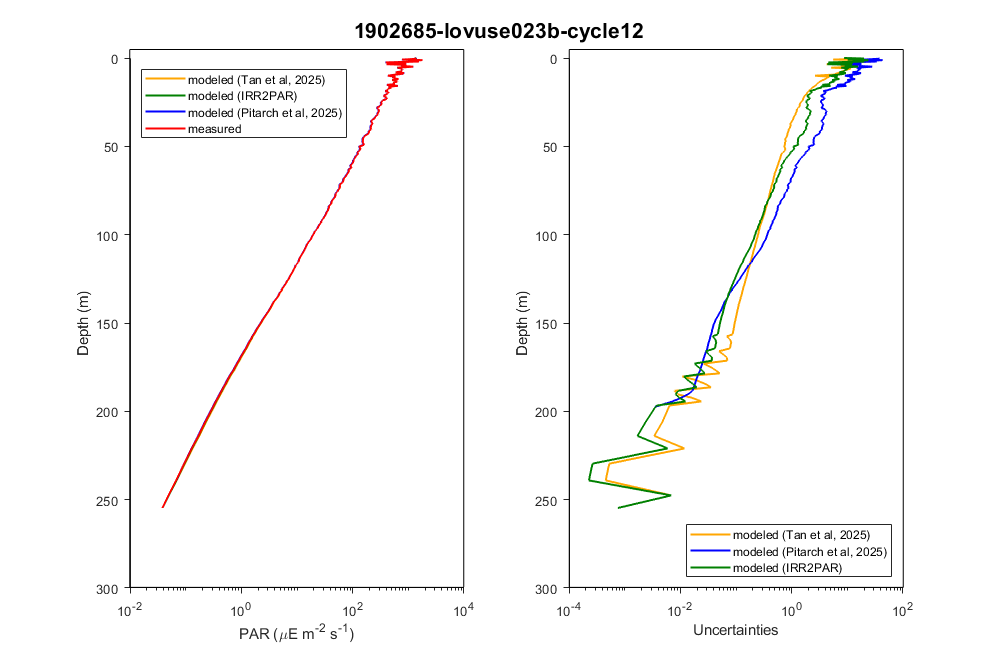
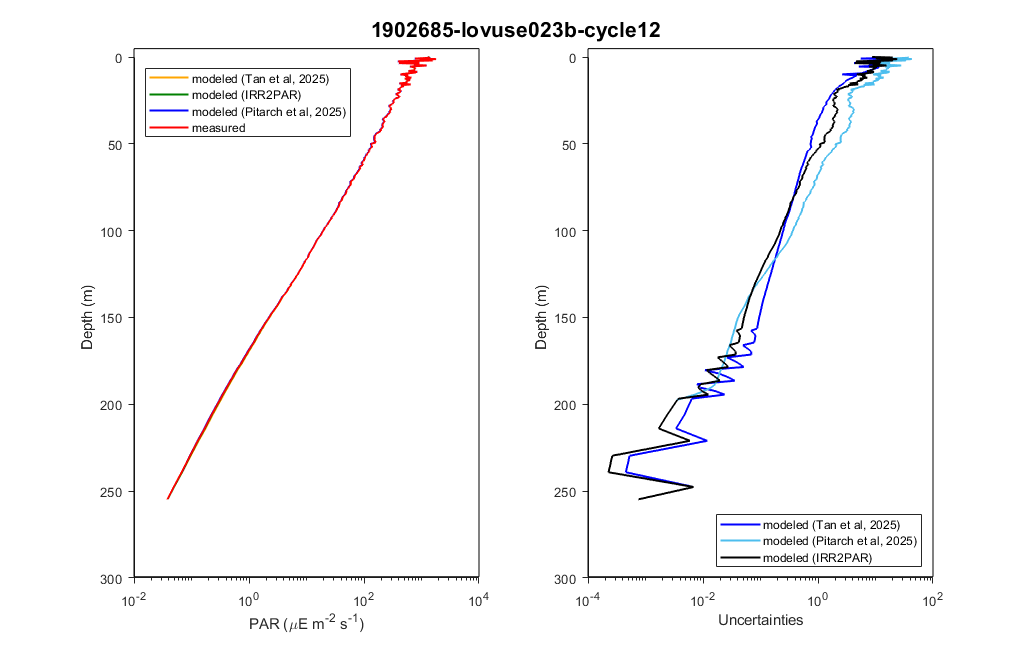
Update example figure

diff --git a/README.md b/README.md
@@ -78,9 +78,9 @@ ylim(ax1, [0, 300]);
 ax2 = subplot(1, 2, 2);
 set(ax2, 'XScale', 'log')
 hold(ax2, 'on');
-semilogx(ax2, JTan_PAR_results{2},     depth, 'Color', [1.0, 0.65, 0.0], 'LineWidth', 1.5, 'DisplayName', 'modeled (Tan et al, 2025)');
-semilogx(ax2, JPitarch_PAR_results{5}, depth, 'Color', [0.0, 0.0,  1.0], 'LineWidth', 1.5, 'DisplayName', 'modeled (Pitarch et al, 2025)');
-semilogx(ax2, mean_uncertainty,   depth, 'Color', [0.0, 0.5,  0.0], 'LineWidth', 1.5, 'DisplayName', 'modeled (IRR2PAR)');
+semilogx(ax2, JTan_PAR_results{2},     depth, 'Color', 'blue', 'LineWidth', 1.5, 'DisplayName', 'modeled (Tan et al, 2025)');
+semilogx(ax2, JPitarch_PAR_results{5}, depth, 'Color', [0.3010, 0.7450, 0.9330], 'LineWidth', 1.5, 'DisplayName', 'modeled (Pitarch et al, 2025)');
+semilogx(ax2, mean_uncertainty,   depth, 'Color', 'black', 'LineWidth', 1.5, 'DisplayName', 'modeled (IRR2PAR)');
 xlabel(ax2, 'Uncertainties');
 ylabel(ax2, 'Depth (m)');
 lg3 = legend(ax2, 'Location', 'southeast');
